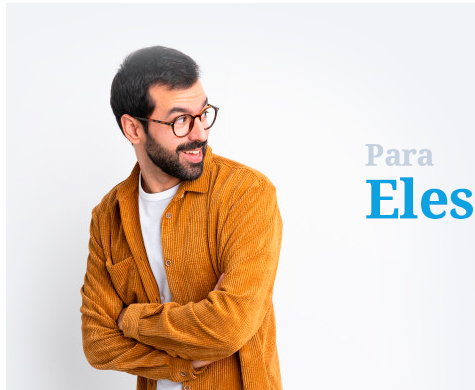
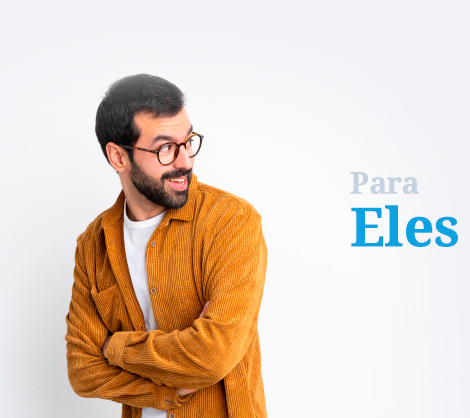
fix: ajustes no layout

Changed region(s): [[0.1191, 0.0923, 0.5957, 1.0], [0.7447, 0.3692, 1.0, 0.6154]]

diff --git a/css/one.css b/css/one.css
@@ -11711,9 +11711,38 @@ body {
 .cms-home .header-container + .banner {
   margin-top: -1rem;
 }
+.banner:not(.banner--nojs) img.d_img {
+  width: 100%;
+  -o-object-fit: cover;
+  object-fit: cover;
+}
+#banner__banner-rulers {
+  padding-bottom: 1rem;
+  background: #fff;
+}
+@media (min-width: 993px) {
+  #banner__banner-rulers {
+    box-shadow: 800px 0 0 #fff, -800px 0 0 #fff;
+  }
+}
+@media (max-width: 992px) {
+  #banner__banner-rulers {
+    box-shadow: 300px 0 0 #fff, -300px 0 0 #fff;
+  }
+}
 
 .breadcrumb {
   background: #f2f4f7;
+}
+@media (min-width: 993px) {
+  .breadcrumb {
+    box-shadow: 800px 0 0 #f2f4f7, -800px 0 0 #f2f4f7;
+  }
+}
+@media (max-width: 992px) {
+  .breadcrumb {
+    box-shadow: 300px 0 0 #f2f4f7, -300px 0 0 #f2f4f7;
+  }
 }
 .catalogsearch-result-index .breadcrumb {
   display: none;
@@ -11848,6 +11877,7 @@ body {
   .categories .box--1 {
     padding: 0;
     width: 100%;
+    background: #f1f3f6;
     box-shadow: none;
   }
   .categories .ul--1 {
@@ -11960,6 +11990,22 @@ body {
 
 .std .descriptions__white {
   background: #fff;
+}
+.std .descriptions__bg {
+  --background: #f2f4f7;
+}
+.std .descriptions__bg {
+  background: var(--background);
+}
+@media (min-width: 993px) {
+  .std .descriptions__bg {
+    box-shadow: 800px 0 0 var(--background), -800px 0 0 var(--background);
+  }
+}
+@media (max-width: 992px) {
+  .std .descriptions__bg {
+    box-shadow: 300px 0 0 var(--background), -300px 0 0 var(--background);
+  }
 }
 .std .descriptions__white,
 .std .descriptions__bg {
@@ -12182,6 +12228,9 @@ body {
   font-weight: 400;
   font-size: 0.81rem;
 }
+.footer-container {
+  background: #f5f5f5;
+}
 @media (max-width: 992px) {
   .footer {
     text-align: center;
@@ -12215,11 +12264,23 @@ body {
   padding-bottom: 0.5rem;
 }
 .footer__copyright {
-  padding-top: 4.38rem;
+  padding-top: 2.5rem;
+  padding-bottom: 0.63rem;
+  background: #fff;
   color: var(--color-black);
   text-align: center;
   font-weight: 400;
   font-size: 0.75rem;
+}
+@media (min-width: 993px) {
+  .footer__copyright {
+    box-shadow: 800px 0 0 #fff, -800px 0 0 #fff;
+  }
+}
+@media (max-width: 992px) {
+  .footer__copyright {
+    box-shadow: 300px 0 0 #fff, -300px 0 0 #fff;
+  }
 }
 
 .frete {
@@ -12609,7 +12670,7 @@ body {
   height: 1rem;
   border: solid 2px #a9a9a9;
   border-radius: 50%;
-  color: #9cc61d;
+  color: var(--primary);
   content: '';
   font-size: 0.63rem;
 }
@@ -12634,7 +12695,7 @@ body {
   -moz-osx-font-smoothing: grayscale;
   -webkit-font-smoothing: antialiased;
   padding-top: 0.13rem;
-  border-color: #9cc61d;
+  border-color: var(--primary);
 }
 
 .pays__svg {
@@ -12676,7 +12737,7 @@ body {
   color: var(--primary-contrast);
 }
 .products__header img {
-  width: 16.25rem;
+  width: 100%;
   height: 16.25rem;
   -o-object-fit: contain;
   object-fit: contain;
@@ -12706,11 +12767,11 @@ body {
 .products .configurable-swatch-list a {
   position: relative;
   min-width: 0;
-  width: 1rem;
-  height: 1rem;
+  width: auto;
+  height: auto;
   box-shadow: none;
 }
-.products .configurable-swatch-list a:before {
+.products .configurable-swatch-list a.has-image:before {
   position: absolute;
   top: 0;
   left: 0;
@@ -12722,7 +12783,7 @@ body {
   content: '';
   opacity: 0;
 }
-.products .configurable-swatch-list a img {
+.products .configurable-swatch-list a.has-image img {
   width: 100%;
   height: 100%;
   border-radius: 50%;
@@ -13344,14 +13405,30 @@ body {
   .column-change-product {
     display: none;
   }
-  .product-cart-price {
-    margin-left: 14.75rem;
-  }
   .product-cart-price,
   .product-cart-actions,
   .product-cart-total {
     margin-top: -5rem;
   }
+  .product-cart-total {
+    order: 3;
+  }
+  .product-cart-image {
+    order: 0;
+  }
+  .product-cart-actions {
+    order: 1;
+    margin-left: 14.75rem;
+  }
+  .product-cart-price {
+    order: 2;
+    border-right: solid 1px #ddd;
+    border-left: solid 1px #ddd;
+    text-align: center;
+  }
+}
+.cart__page-title h1 {
+  color: #000;
 }
 
 .col-main .category-image,
@@ -13368,10 +13445,36 @@ body {
 }
 .category-description {
   position: relative;
+  margin-bottom: 0 !important;
   padding: 3.13rem 0;
   border: 0;
-  background: none;
+  background: #f2f4f7;
   font-size: 0.88rem;
+}
+.category-description h3 {
+  font-weight: 700;
+  font-size: 1.75rem;
+}
+@media (min-width: 993px) {
+  .category-description {
+    box-shadow: 800px 0 0 #f2f4f7, -800px 0 0 #f2f4f7;
+  }
+}
+@media (max-width: 992px) {
+  .category-description {
+    box-shadow: 300px 0 0 #f2f4f7, -300px 0 0 #f2f4f7;
+  }
+}
+@media (min-width: 993px) {
+  .category-description {
+    display: flex !important;
+    align-items: center;
+  }
+  .category-description h3 {
+    flex: 0 1 245px;
+    margin-right: 1rem;
+    margin-bottom: 0;
+  }
 }
 .catalogsearch-result-index .page-title h1 {
   font-size: 1.5rem;
@@ -13379,10 +13482,6 @@ body {
 .catalogsearch-result-index .page-title h1 small {
   margin-right: 0.63rem;
   font-size: 1rem;
-}
-.catalog-category-view .main-container,
-.catalogsearch-result-index .main-container {
-  overflow: hidden;
 }
 @media (min-width: 993px) {
   .catalog-category-view .col-main,
@@ -13394,7 +13493,7 @@ body {
     display: -ms-grid;
     display: grid;
     margin: 0;
-    grid-template-areas: 'description description' 'filters toolbar' 'main main';
+    grid-template-areas: 'description description' 'filters filters' 'main main';
     -ms-grid-columns: 2fr;
     grid-template-columns: 2fr;
   }
@@ -13411,11 +13510,12 @@ body {
     margin: 0;
     padding: 0;
     max-width: none;
+    background: #f2f4f7;
     grid-area: filters;
   }
   .catalog-category-view .toolbar,
   .catalogsearch-result-index .toolbar {
-    grid-area: toolbar;
+    display: none;
   }
   .catalog-category-view .category__products,
   .catalogsearch-result-index .category__products {
@@ -13437,11 +13537,7 @@ body {
   .catalogsearch-result-index .col-left {
     -ms-grid-row: 2;
     -ms-grid-column: 1;
-  }
-  .catalog-category-view .toolbar,
-  .catalogsearch-result-index .toolbar {
-    -ms-grid-row: 2;
-    -ms-grid-column: 2;
+    -ms-grid-column-span: 2;
   }
   .catalog-category-view .category__products,
   .catalogsearch-result-index .category__products {
@@ -13449,6 +13545,31 @@ body {
     -ms-grid-column: 1;
     -ms-grid-column-span: 2;
   }
+}
+@media (min-width: 993px) and (min-width: 993px) {
+  .catalog-category-view .col-left,
+  .catalogsearch-result-index .col-left {
+    box-shadow: 800px 0 0 #f2f4f7, -800px 0 0 #f2f4f7;
+  }
+}
+@media (min-width: 993px) and (max-width: 992px) {
+  .catalog-category-view .col-left,
+  .catalogsearch-result-index .col-left {
+    box-shadow: 300px 0 0 #f2f4f7, -300px 0 0 #f2f4f7;
+  }
+}
+
+.cms-home .main-container {
+  padding: 0;
+  max-width: none;
+  width: auto;
+  background: linear-gradient(to bottom, #f1f3f4, #fff);
+}
+.cms-home .main-container .main {
+  margin-right: auto;
+  margin-left: auto;
+  max-width: calc(100vw - 32px);
+  width: 61.25rem;
 }
 
 .catalog-product-view .main {
